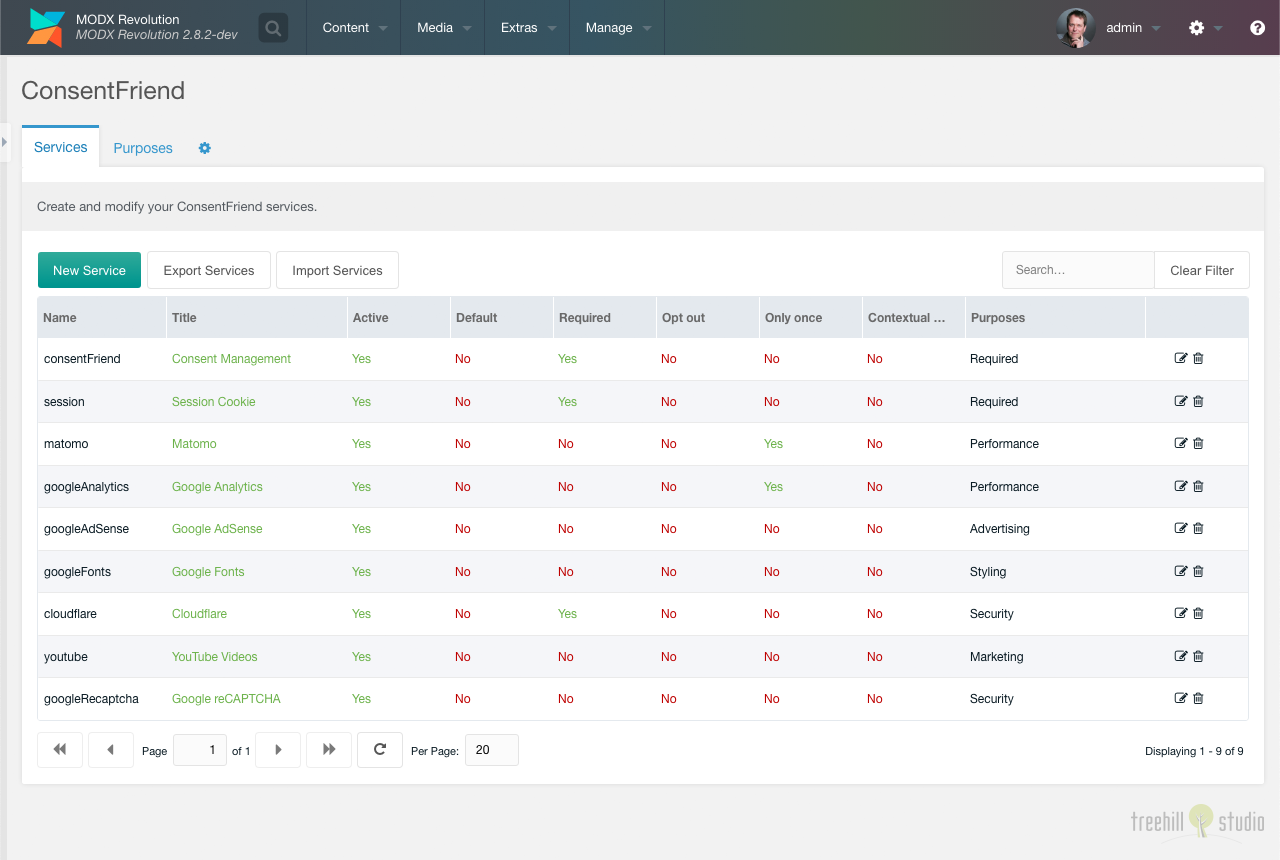
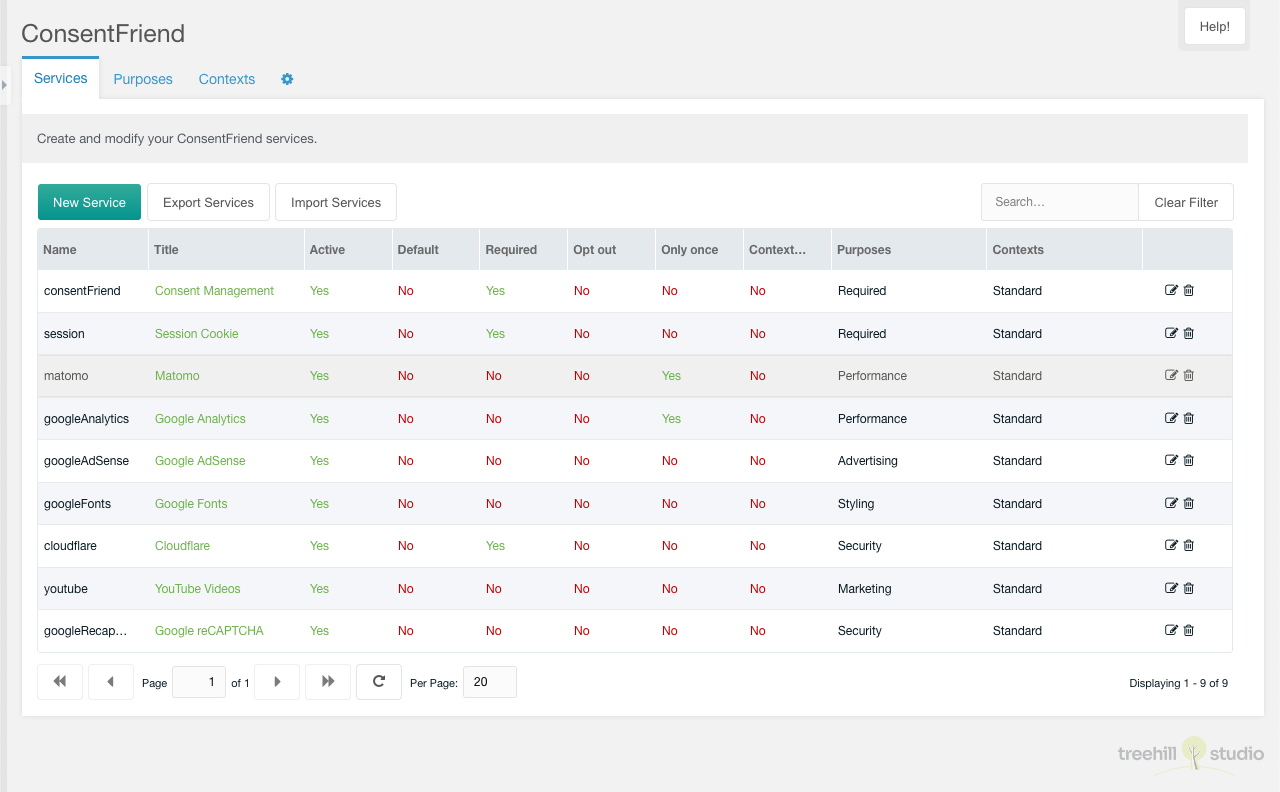
Update ConsentFriend docs to 1.5.0

diff --git a/en/02_ConsentFriend/v1/03_Custom_Manager_Page/01_Services.md b/en/02_ConsentFriend/v1/03_Custom_Manager_Page/01_Services.md
@@ -1,7 +1,7 @@
 This tab contains a paginated grid with all internal or third-party services,
-that could collect personal data.
+that are able to collect personal data.
 
-With ConsentFriend can manage both inline and external scripts as well as static
+With ConsentFriend you can manage inline and external scripts as well as static
 tracking elements like images or stylesheet links. New services can be added
 with just a few lines of code.
 
@@ -14,7 +14,7 @@ You can export the services to a YAML file with a click on the Export Services
 button above the services grid.
 
 You can import a YAML file with the services with a click on the Import Services
-button above the services grid. In the import window you could select a file to
+button above the services grid. In the import window you have to select a file to
 import and the import mode. In the append mode the entries in the file are
 appended to the existing services in the grid. In the replace mode the existing
 services in the grid are replaced with the entries in the file. In the update
@@ -27,7 +27,8 @@ grid.
 
 Each service can be edited by a click on the edit icon in the row of the
 service. And it can be deleted after a confirmation with a click on the trash
-icon in the row of the service.
+icon in the row of the service. The service name and the yes/no columns are
+editable inline.
 
 The row of each service shows the service name, the title, some options, and the
 purposes. The service title will be shown in green, when it is retrieved from a
@@ -61,6 +62,9 @@ notice. Do not forget to add translations for all purposes you list here.
 the description is left blank, the description is set by the lexicon entry
 "consentfriend.services.&lt;name&gt;.description" with the consentfriend
 namespace.
+
+**Contexts:** The context(s) where this service is active in the frontend.
+Available since ConsentFriend 1.5.0.
 
 **Active:** If "active" is checked, the service is shown in the consent management window
 window.
@@ -96,7 +100,7 @@ In the code tab you can select the code section and enter the service code.
 
 **Code:** The service code, thats injected automatically into the page code. The
 service code will be automatically disabled for a direct execution before the
-injection. MODX context/system settings tags could be used in the service code.
+injection. MODX context/system settings tags can be used in the service code.
 
 ### Cookies Tab
 
@@ -141,7 +145,7 @@ disables all inputs with `data-name="googleRecaptcha"`. Please have a look at
 the [reCAPTCHA usage example](../02_Functionality/Google_reCAPTCHA.md).
 
 The `On Toggle` callback was named `Callback` before ConsentFriend 1.3.0. The next
-callbacks are available with ConsentFriend 1.3.0.
+callbacks are available since ConsentFriend 1.3.0.
 
 **On Init:** This callback code is executed when the service is initialized
 (once per page-load). It must contain a javascript function with the property

diff --git a/en/02_ConsentFriend/v1/01_Installation.md b/en/02_ConsentFriend/v1/01_Installation.md
@@ -5,18 +5,18 @@ A custom manager page called _ConsentFriend_ is installed within the _Extras_
 menu.
 
 There are some system settings available in the namespace _ConsentFriend_. These
-can also be edited in the [settings](03_Custom_Manager_Page/03_Settings.md) (gear
+can also be edited in the [settings](03_Custom_Manager_Page/04_Settings.md) (gear
 icon) tab of the _ConsentFriend_ custom manager page.
 
 ## Prepare the website
 
-After the installation on an existing website, you have to identify the used
-external services like Google Analytics, Matomo, Google Fonts etc. If those
-services are referenced at the end of the head or the body section, you could
-[edit an existing service or create a new
+After the installation on an existing website, you need to identify the external
+services used, such as Google Analytics, Matomo, Google Fonts, etc. If these
+services are referenced at the end of the Head or Body section, you can [edit an
+existing service or create a new
 service](03_Custom_Manager_Page/01_Services.md#createedit) and use the found
-code in the code tab. ConsentFriend will do the needed code changes for the
-consent management window.
+code in the Code tab. ConsentFriend will make the necessary changes to the code
+for the consent management window.
 
 If you use inline code for external services, you have to [modify it on your
 own](02_Functionality/01_Introduction.md#custom-external-services).

diff --git a/en/02_ConsentFriend/v1/03_Custom_Manager_Page/02_Purposes.md b/en/02_ConsentFriend/v1/03_Custom_Manager_Page/02_Purposes.md
@@ -11,7 +11,7 @@ You can export the purposes to a YAML file with a click on the Export Purposes
 button above the purposes grid.
 
 You can import a YAML file with the purposes with a click on the Import Purposes
-button above the purposes grid. In the import window you could select a file to
+button above the purposes grid. In the import window you have to select a file to
 import and the import mode. In the append mode the entries in the file are
 appended to the existing purposes in the grid. In the replace mode the existing
 purposes in the grid are replaced with the entries in the file. In the update
@@ -24,7 +24,8 @@ grid.
 
 Each purpose can be edited by a click on the edit icon in the row of the
 purpose. And it can be deleted after a confirmation with a click on the trash
-icon in the row of the purpose.
+icon in the row of the purpose. The purpose key and the active column are
+editable inline.
 
 The row of each purpose shows the key, the title and the active state of an
 entry.

diff --git a/en/02_ConsentFriend/v1/08_FAQ.md b/en/02_ConsentFriend/v1/08_FAQ.md
@@ -45,14 +45,14 @@ have to fill the html lang attribute with the cultureKey system/context setting:
 
 ## I would like to change the texts of ConsentFriend
 
-This could be done with the ConsentFriend [lexicon](06_Lexicon.md).
+This can be done with the ConsentFriend [lexicon](06_Lexicon.md).
 
 ## How can I create an own theme for ConsentFriend?
 
-If you want to create your own theme, you could import the file
+If you want to create your own theme, you can import the file
 `assets/components/consentfriend/scss/consentfriend.scss` in your scss workflow. There
 are a few scss variables available in
-`assets/components/consentfriend/scss/vars.scss` that could be overridden
+`assets/components/consentfriend/scss/vars.scss` that can be overridden
 before. To disable the default styling of the modal afterwards, please set the
 system setting consentfriend.js_url to
 `/assets/components/consentfriend/js/web/consentfriend-no-css.js`.

diff --git a/en/02_ConsentFriend/v1/03_Custom_Manager_Page/index.md b/en/02_ConsentFriend/v1/03_Custom_Manager_Page/index.md
@@ -4,18 +4,15 @@ parts of the events.
 
 #### Services 
 
-This tab contains a grid view of all third-party
-[services](01_Services.md), that could collect personal
-data.
+This tab contains a grid view of all third-party [services](01_Services.md),
+that are able to collect personal data.
 
 #### Purposes 
 
-This tab contains a grid view of all
-[purposes](02_Purposes.md), that can be assigned to a
-service.
+This tab contains a grid view of all [purposes](02_Purposes.md), that can be
+assigned to a service.
 
 #### Settings (gear icon) 
 
-This tab contains a grid view of all ConsentFriend
-[settings](03_Settings.md), that could be found in
-[settings](../04_System_Settings.md).
+This tab contains a grid view of all ConsentFriend [settings](04_Settings.md),
+that are available in [settings](../04_System_Settings.md).

diff --git a/en/02_ConsentFriend/v1/04_System_Settings.md b/en/02_ConsentFriend/v1/04_System_Settings.md
@@ -2,7 +2,7 @@ _ConsentFriend_ contains some _system settings_ in the `consentfriend`
 namespace.
 
 These are available in the MODX system settings panel and in the
-[settings](03_Custom_Manager_Page/03_Settings) tab (gear icon) of the
+[settings](03_Custom_Manager_Page/04_Settings) tab (gear icon) of the
 _ConsentFriend_ custom manager page.
 
 | Key                                     | Name              | Description                                                                                                                                                                                                                                                                                                                                                                                          | Default       |

diff --git a/en/02_ConsentFriend/v1/05_Themes.md b/en/02_ConsentFriend/v1/05_Themes.md
@@ -6,7 +6,7 @@ Klaro. Sadly the changes are not backwards compatible. If you created an own
 theme, you have to use the new color variables. Please check the display of the
 consent popup after the update and after compiling the scss file for your site.
 
-> If you want to create your own theme, you could import the file
+> If you want to create your own theme, you can import the file
 `assets/components/consentfriend/scss/klaro.scss` in your scss workflow.
 To disable the default styling of the modal afterwards, please set the system
 setting consentfriend.js_url to

diff --git a/en/02_ConsentFriend/v1/index.md b/en/02_ConsentFriend/v1/index.md
@@ -16,8 +16,8 @@ prepares a compliance with GDPR/DSGVO on the website and helps the site admin to
 setup the consent management in an easy way.
 
 It is a perfect solution for website operators, that have to use third-party
-frontend services on a MODX website. Since those services could collect personal
-data, the service usage has to be fully transparent and compliant.
+frontend services on a MODX website. Since those services are able to collect
+personal data, the service usage has to be fully transparent and compliant.
 
 # Recommended Reading
 

diff --git a/en/02_ConsentFriend/v1/02_Functionality/01_Introduction.md b/en/02_ConsentFriend/v1/02_Functionality/01_Introduction.md
@@ -72,7 +72,7 @@ Example code for external services:
 
 #### Link to open the consent management window
 
-If you want to add a link to the consent management window on a page, you could use the following code: 
+If you want to add a link to the consent management window on a page, you can use the following code: 
 
 ```
 <a onclick="klaro.show();return false;">[[%consentfriend.services.change_setting? &namespace=`consentfriend`]]</a>

diff --git a/en/02_ConsentFriend/v1/07_Lexicon.md b/en/02_ConsentFriend/v1/07_Lexicon.md
@@ -11,4 +11,5 @@ MODX cache** for changes to appear in the front-end.
 The changes made this way will also persist across updates of the ConsentFriend
 package.
 
-The ConsentFriend lexicon could be translated on Weblate in the future.
+The ConsentFriend frontend lexicon can be translated on
+[Weblate](https://hosted.weblate.org/projects/treehillstudio/consentfriend-web/).
